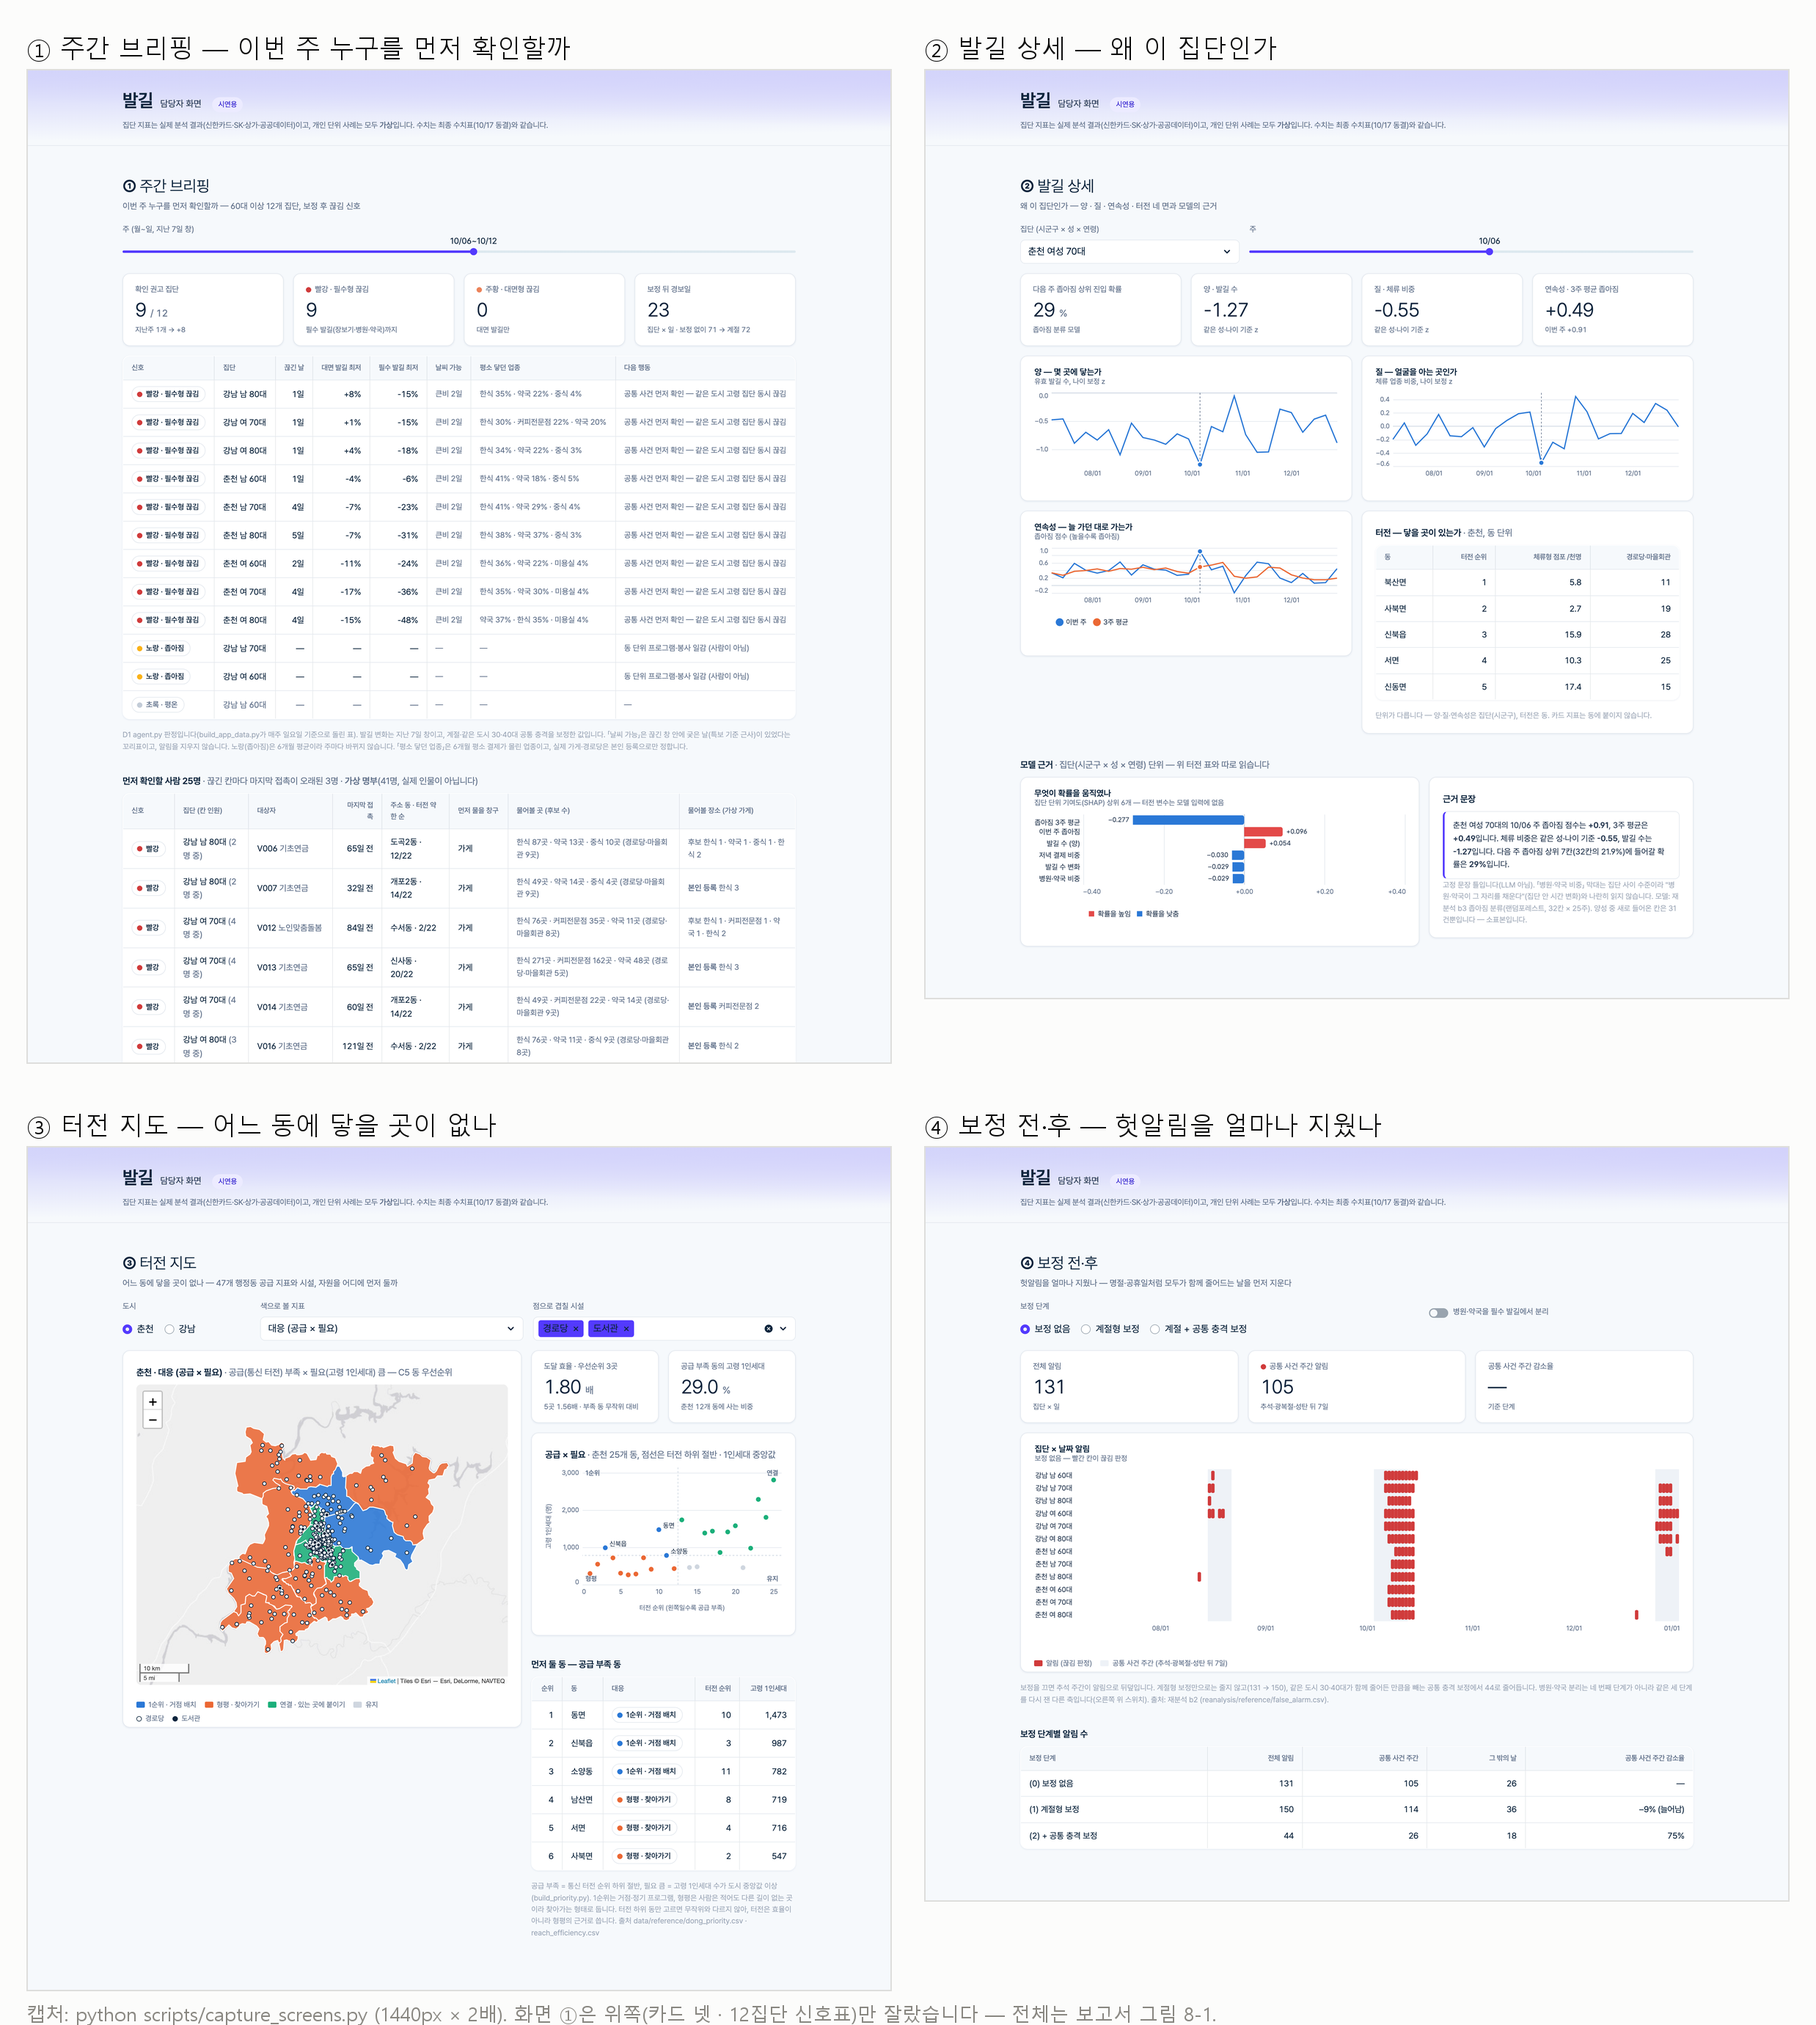
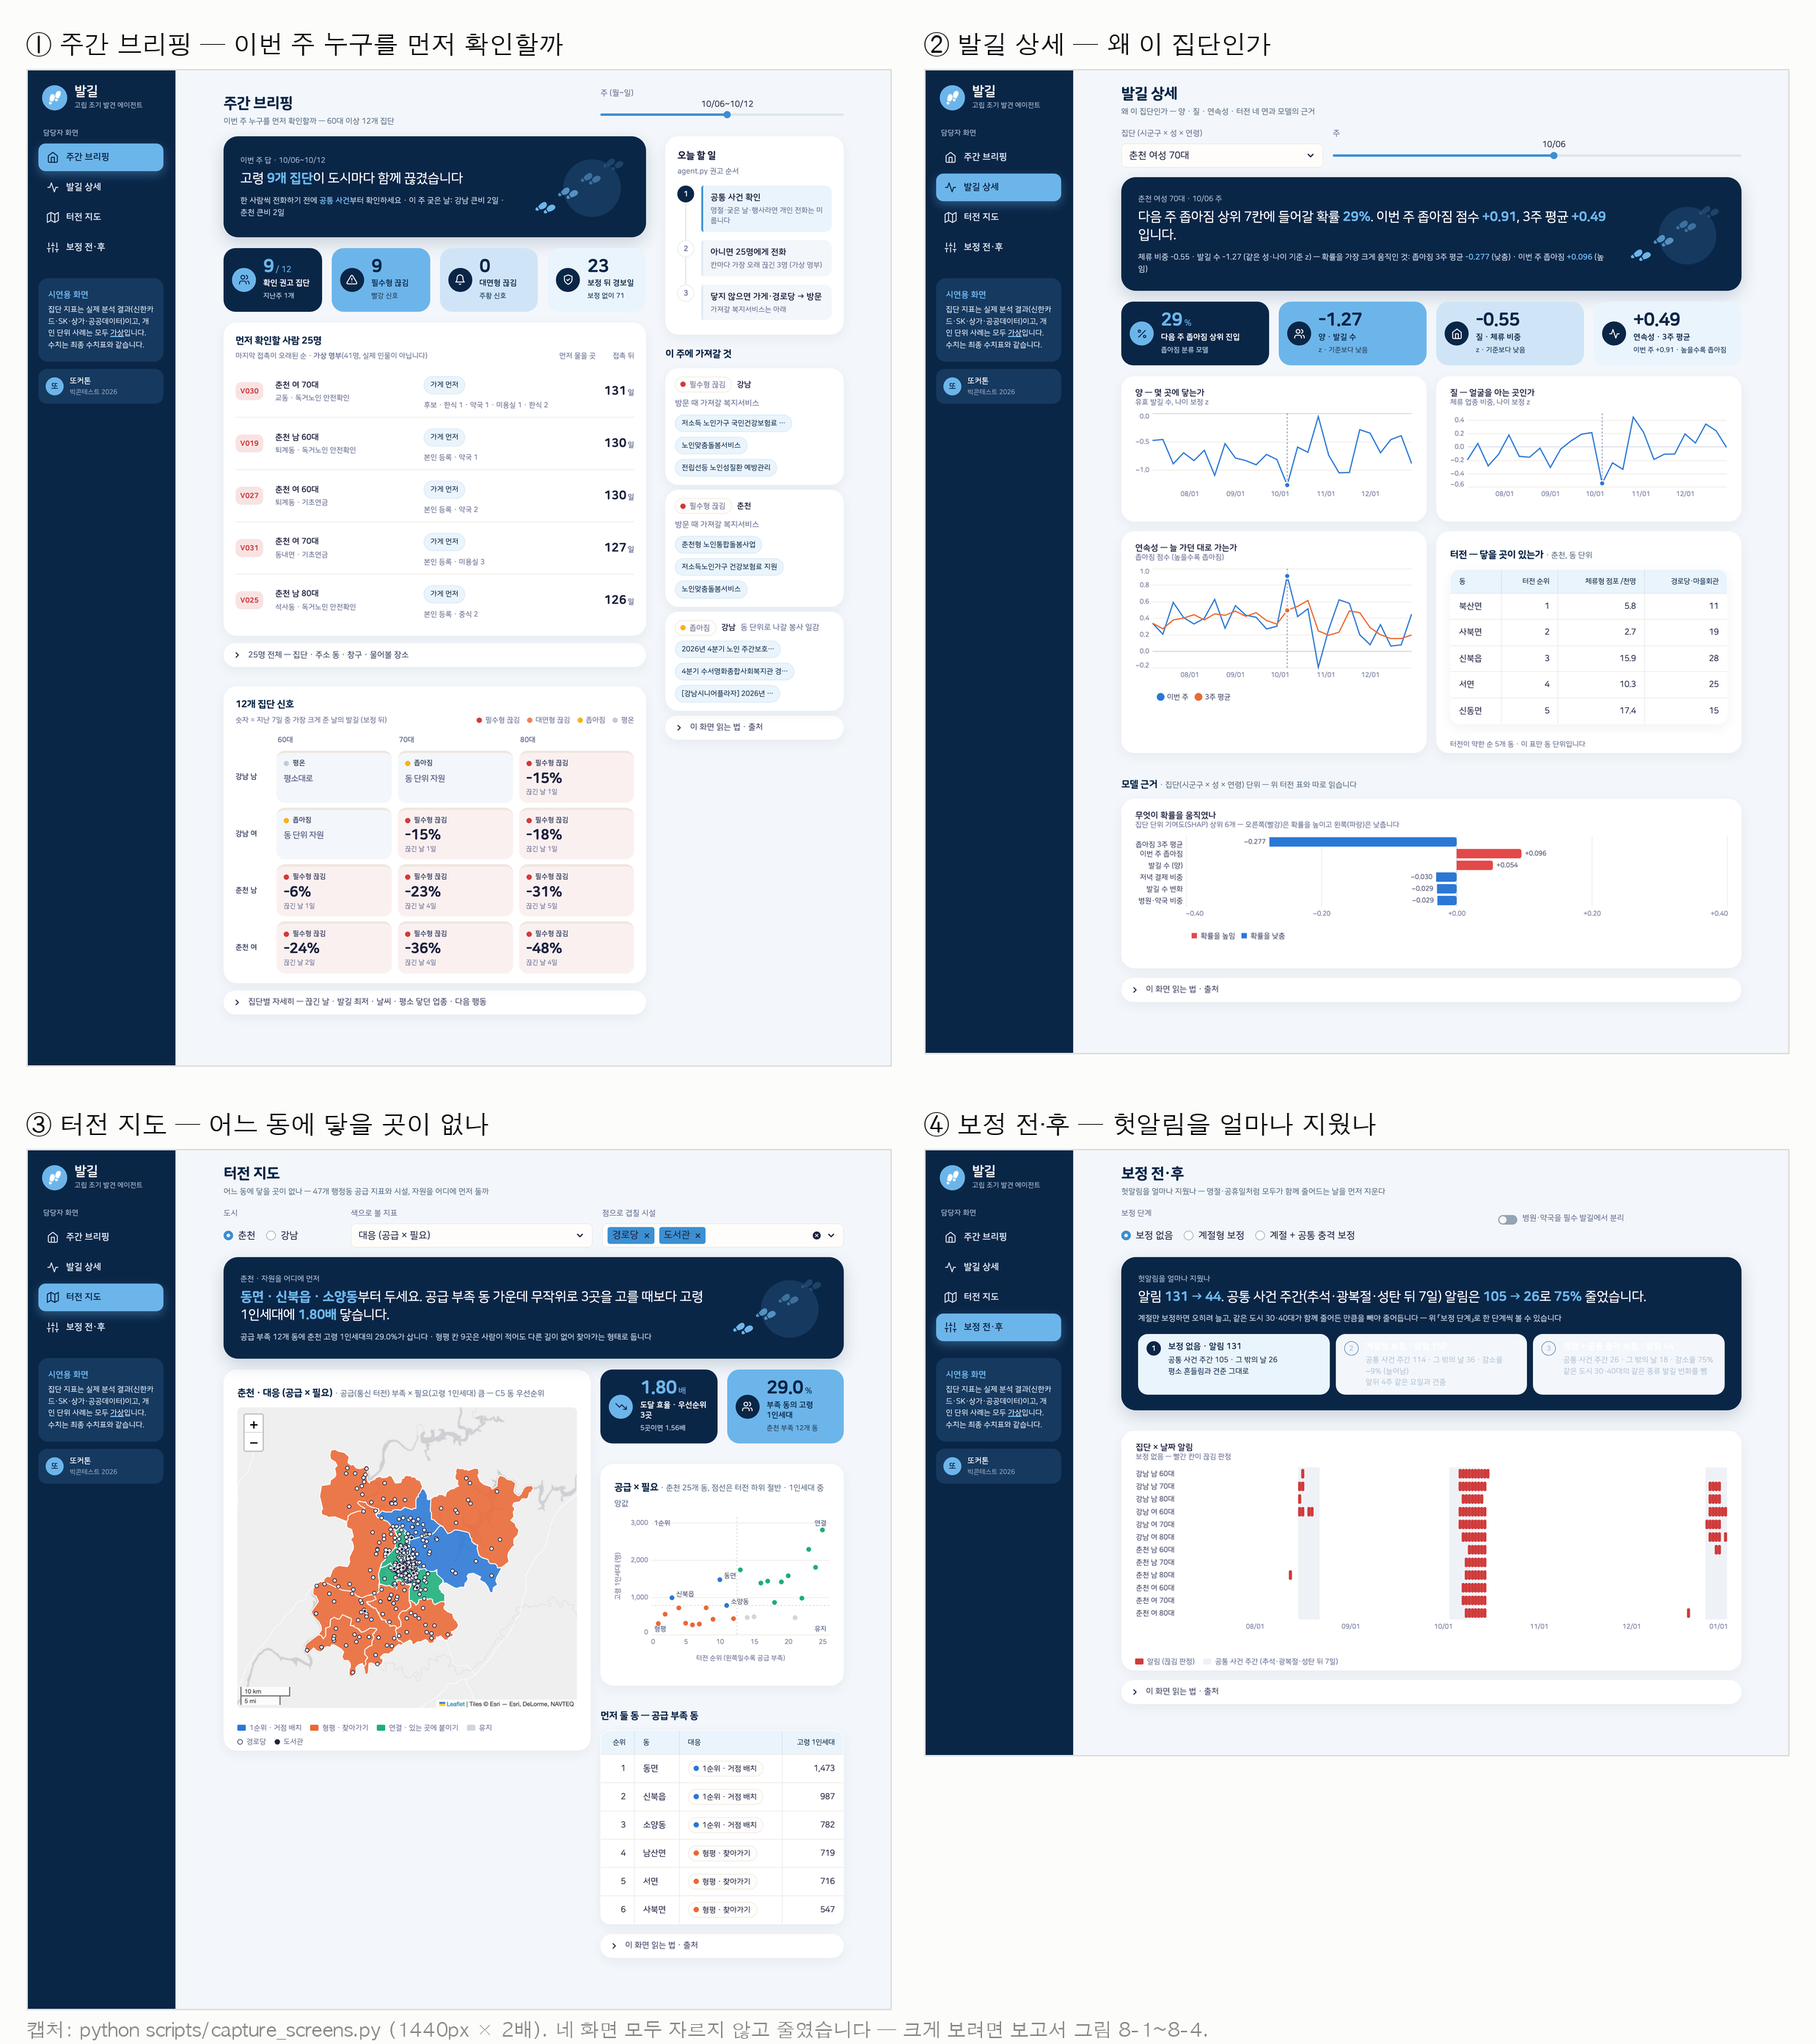
발표 11장 그림 · 보고서 · 제출 메일 표를 새 캡처에 맞추기
- fig_screens_grid.py: 새 화면 ①은 2880 × 3320이라 자르지 않고 그대로 줄입니다. 그림 아래 「위쪽만 잘랐습니다」 줄도 고쳤습니다
- 발표자료_슬라이드.md 11장: 화면 ① 설명을 새 순서(답 · 타일 → 먼저 확인할 사람 → 신호판)로
- reports/발길_분석보고서.md · .html: build_report.py --html로 다시 만들었습니다(그림 8-1~8-5가 새 캡처)
- 제출요건.md 3번 표: 화면캡처 zip을 새 캡처로 다시 묶어 2.45MB · e7fb9b4c…로 바꿨습니다(드라이브에 올릴 그 파일)
- 체크리스트_윤지.md: 화면캡처 크기를 같은 값으로

diff --git a/reports/발길_분석보고서.html b/reports/발길_분석보고서.html
@@ -2497,7 +2497,7 @@ python scripts/explore_sk_independent.py       # 5.7-2
 </blockquote>
 <p><strong>이 장면이 에이전트가 알림을 아끼는 방식입니다.</strong> 계절 보정과 같은 도시 30·40대 차감을 거치고도 춘천 고령 여섯 집단이 한꺼번에 남았습니다. 한 사람의 고립이라면 여섯 집단이 같은 주에 같이 줄 리가 없습니다. 명부에서 올라온 사람에게 바로 전화를 돌리면 연휴 끝에 장을 덜 본 분들께 안부 전화 수십 통을 거는 셈입니다. 에이전트는 그 전에 공통 사건을 확인하라고 권합니다. 이번 주는 추석 연휴(10/03~10/09)가 막 끝났고, 「날씨 가능」 꼬리표에 큰비 2일(10/10·10/11, 화면에는 날짜 없이 「큰비 2일」)이 붙어 있습니다.</p>
 <p><strong>9시 10분 — 공통 사건인지 확인합니다.</strong> 주무관은 연휴와 비를 확인하고, 이번 주는 <strong>개별 전화 대신 집단을 지켜보기로</strong> 합니다. 다음 주 브리핑에서 춘천이 여전히 빨강으로 남으면 그때 개인 단계로 내려갑니다. 판단은 사람이 하고, 에이전트는 근거를 붙여 두 길을 다 보여 줄 뿐입니다.</p>
-<p><strong>만약 공통 사건이 아니었다면 — 명부 교차.</strong> 화면 ① 아래 「먼저 확인할 사람」 표가 끊긴 칸마다 가상 명부에서 <strong>마지막 접촉이 가장 오래된 3명</strong>을 올립니다. 춘천 여성 70대 칸의 근거는 이렇습니다.</p>
+<p><strong>만약 공통 사건이 아니었다면 — 명부 교차.</strong> 화면 ①의 「먼저 확인할 사람」 목록이 끊긴 칸마다 가상 명부에서 <strong>마지막 접촉이 가장 오래된 3명</strong>을 올립니다. 춘천 여성 70대 칸의 근거는 이렇습니다.</p>
 <blockquote>
 <p><strong>끊김(빨강) · 춘천 여 70대</strong>
 〈양〉 유효 발길 수 <strong>8.4</strong> — 같은 도시·성 50대(10.2)의 <strong>82%</strong>.
@@ -2539,7 +2539,7 @@ python scripts/explore_sk_independent.py       # 5.7-2
 </ul>
 <p>재현: <code>python scripts/run_agent.py --as-of 2025-10-01 --roster data/synthetic/roster_가상.csv --places data/synthetic/places_가상.csv</code></p>
 <h2 id="82">8.2 화면 네 개</h2>
-<p>화면은 Streamlit 하나에 탭 네 개입니다(<code>app/balgil_app.py</code>). <strong>git에 있는 파일만 읽어서 원본 데이터 없이도 뜹니다.</strong> <code>?screen=1</code>~<code>4</code>를 붙이면 그 화면만 열려 캡처에 씁니다.</p>
+<p>화면은 Streamlit 하나에 왼쪽 메뉴로 고르는 네 개입니다(<code>app/balgil_app.py</code>). 화면마다 맨 위 <strong>답 카드</strong> 한 줄과 숫자 타일이 먼저 오고, 근거 표는 그 아래 펼치는 칸에 둡니다. <strong>git에 있는 파일만 읽어서 원본 데이터 없이도 뜹니다.</strong> <code>?screen=1</code>~<code>4</code>를 붙이면 그 화면만 열려 캡처에 씁니다.</p>
 <table>
 <thead>
 <tr>
@@ -2552,7 +2552,7 @@ python scripts/explore_sk_independent.py       # 5.7-2
 <tbody>
 <tr>
 <td><strong>① 주간 브리핑</strong></td>
-<td>주 고르기(월~일, 지난 7일 창) → 확인 권고 집단 수와 지난주 대비, 빨강·주황 수, 보정 뒤 경보일. 12집단 신호표(끊긴 날 · 대면/필수 최저 · 날씨 가능 · 평소 닿던 업종 · 다음 행동). 그 아래 <strong>먼저 확인할 사람</strong>(가상 명부: 칸 인원 · 마지막 접촉 · 주소 동의 터전 순위 · 먼저 물을 창구 · 후보 수 · <strong>물어볼 장소</strong> — 본인 등록 장소, 없으면 그 동의 후보 장소, #77)</td>
+<td>주 고르기(월~일, 지난 7일 창) → <strong>답 카드</strong>(이번 주 한 줄과 오늘 할 일 세 단계) → 숫자 타일(확인 권고 집단 수와 지난주 대비, 빨강·주황 수, 보정 뒤 경보일). 그 아래 <strong>먼저 확인할 사람</strong>(마지막 접촉이 오래된 순 몇 줄, 펼치면 전체 — 가상 명부: 칸 인원 · 마지막 접촉 · 주소 동의 터전 순위 · 먼저 물을 창구 · 창구를 가른 비교(가게 ↔ 경로당·마을회관 × 3) · <strong>물어볼 장소</strong> — 본인 등록 장소, 없으면 그 동의 후보 장소, #77). 맨 아래 <strong>12개 집단 신호판</strong>(도시·성 × 연령, 펼치면 끊긴 날 · 대면/필수 최저 · 날씨 가능 · 평소 닿던 업종 · 다음 행동). 오른쪽에 방문 때 가져갈 복지서비스 · 봉사 일감</td>
 <td><strong>이번 주 누구를 먼저 확인할까.</strong> 동시 끊김이면 개인보다 공통 사건 먼저</td>
 <td><code>agent_summary.csv</code> · <code>agent_groups.csv</code> · <code>agent_people.csv</code> (<code>agent.py</code> 판정을 매주 일요일로 돌린 것)</td>
 </tr>
@@ -2570,7 +2570,7 @@ python scripts/explore_sk_independent.py       # 5.7-2
 </tr>
 <tr>
 <td><strong>④ 보정 전·후</strong></td>
-<td>보정 단계(없음 / 계절형 / + 공통 충격)를 바꾸면 집단 × 날짜 알림 칸이 바뀜. 단계별 알림 수 표(병원·약국 포함/분리)</td>
+<td>보정 단계(없음 / 계절형 / + 공통 충격)를 바꾸면 집단 × 날짜 알림 칸이 바뀜. 단계별 알림 수는 답 카드의 세 칸, 병원·약국 분리는 오른쪽 위 스위치</td>
 <td><strong>헛알림을 얼마나 지웠나.</strong> 추석 주간이 알림으로 덮이는 것과 지워지는 것</td>
 <td><code>break_daily.csv</code> · <code>false_alarm.csv</code> (재분석 reference)</td>
 </tr>

diff --git a/scripts/fig_screens_grid.py b/scripts/fig_screens_grid.py
@@ -3,9 +3,9 @@
 11장은 「화면 넷」이 주장인데 캡처가 넉 장으로 따로 있어, 슬라이드에 넣을 그림이 없었다.
 손으로 네 장을 올리면 장마다 크기·여백이 달라지므로 여기서 한 번에 맞춘다.
 
-**화면 ①은 세로로 아주 길다**(2880 × 6588). 통째로 줄이면 글자가 뭉개지므로 **위쪽만 자른다** —
-카드 넷과 12집단 신호표가 거기 있고, 그 아래 「먼저 확인할 사람」 표는 8절 그림 8-1에서 통째로 본다.
-나머지 셋은 비율이 1:1 언저리라 그대로 줄인다.
+예전 화면 ①은 세로로 아주 길어(2880 × 6588) 위쪽만 잘랐다. 대시보드 틀(#126)로 바꾼 뒤에는
+넷 모두 1:1 언저리(화면 ① 2880 × 3320)라 **자르지 않고 그대로 줄인다.** 세로로 긴 화면이 다시 생기면
+PANEL 셋째 칸에 비율(가로 대비 세로)을 넣으면 위쪽만 잘린다.
 
 캡처는 현수가 찍어 커밋한 것을 읽기만 한다(`capture_screens.py`, #118). 이 스크립트는 자르고
 붙이기만 하므로 돌릴 때마다 같은 그림이 나온다 — 글자는 번호와 이름뿐이다.
@@ -31,7 +31,7 @@ ROOT = Path(__file__).resolve().parents[1]
 SRC = ROOT / "reports" / "screens"
 OUT = ROOT / "reports" / "figures" / "fig_screens_grid.png"
 
-PANEL = [("screen1.png", "① 주간 브리핑 — 이번 주 누구를 먼저 확인할까", 1.15),
+PANEL = [("screen1.png", "① 주간 브리핑 — 이번 주 누구를 먼저 확인할까", None),
          ("screen2.png", "② 발길 상세 — 왜 이 집단인가", None),
          ("screen3.png", "③ 터전 지도 — 어느 동에 닿을 곳이 없나", None),
          ("screen4.png", "④ 보정 전·후 — 헛알림을 얼마나 지웠나", None)]
@@ -81,7 +81,7 @@ def main() -> None:
         d.rectangle([x, top, x + CELL_W - 1, top + im.height - 1], outline=EDGE, width=2)
 
     d.text((PAD, H - PAD + 2), "캡처: python scripts/capture_screens.py (1440px × 2배). "
-                               "화면 ①은 위쪽(카드 넷 · 12집단 신호표)만 잘랐습니다 — 전체는 보고서 그림 8-1.",
+                               "네 화면 모두 자르지 않고 줄였습니다 — 크게 보려면 보고서 그림 8-1~8-4.",
            font=f_sub, fill=MUTED)
 
     OUT.parent.mkdir(parents=True, exist_ok=True)

diff --git a/docs/체크리스트_윤지.md b/docs/체크리스트_윤지.md
@@ -112,7 +112,7 @@
 
 - [x] ~~제출 메일 초안~~ → **10/16 완료**([`제출요건.md`](제출요건.md) 6-2). 팀명(**또커톤**)까지 채웠고 「보내기 전 확인」 다섯 줄을 붙였습니다. 남은 〈 〉는 **링크와 보내는 사람 이름** 둘입니다
 - [x] ~~10/25 — 발표 PDF · 보고서 PDF를 떠서 크기 재기~~ → **보고서 6.18MB(98쪽) · E5 0.37MB · E6 0.24MB**를 `python scripts/build_pdf.py`(크롬 헤드리스)로 떴습니다. 1쪽과 47쪽을 열어 한글 글꼴·표·그림을 눈으로 확인했습니다. **발표자료 PDF만 구글 슬라이드에서 내려받으면 됩니다**
-- [ ] **첨부 묶기** — `python scripts/build_package.py`. 10/26 기준 — **「큰 것은 링크」(#124)로 가면 첨부 6.99MB**라 PDF 넷에 **18.01MB**가 남습니다. PDF 셋이 6.80MB이니 **발표 PDF가 11.2MB 아래면 한 통**입니다. 드라이브로 가는 zip은 화면캡처 3.65MB · 상가 강원 12.73MB · 상가 서울 · SGIS 경계
+- [ ] **첨부 묶기** — `python scripts/build_package.py`. 10/26 기준 — **「큰 것은 링크」(#124)로 가면 첨부 6.99MB**라 PDF 넷에 **18.01MB**가 남습니다. PDF 셋이 6.80MB이니 **발표 PDF가 11.2MB 아래면 한 통**입니다. 드라이브로 가는 zip은 화면캡처 2.45MB(발표자료 색 화면으로 다시 찍은 뒤) · 상가 강원 12.73MB · 상가 서울 · SGIS 경계
 - [ ] **10/26 오전 제출** (`bigcontest@kait.or.kr`)
 - [ ] 보낸 메일·첨부 목록 캡처 보관
 

diff --git a/docs/draft/발표자료_슬라이드.md b/docs/draft/발표자료_슬라이드.md
@@ -211,7 +211,7 @@
 
 ### 담당자가 **3초에 이해하는 화면**
 
-- **① 주간 브리핑 — 이번 주 누구를 먼저 확인할까.** 맨 위 카드 넷(확인 권고 집단 · 빨강 · 주황 · 보정 뒤 경보일), 12집단 신호표, 그 아래 「먼저 확인할 사람」(칸마다 오래된 3명 · 먼저 물을 창구)과 이번 주 가져갈 자원
+- **① 주간 브리핑 — 이번 주 누구를 먼저 확인할까.** 맨 위 이번 주 답 한 줄과 숫자 타일 넷(확인 권고 집단 · 빨강 · 주황 · 보정 뒤 경보일), 그 아래 「먼저 확인할 사람」(칸마다 오래된 3명 · 먼저 물을 창구), 맨 아래 12집단 신호판, 오른쪽에 오늘 할 일과 이번 주 가져갈 자원
 - **② 발길 상세 — 왜 이 집단인가.** 양 · 질 · 연속성 시계열과 그 집단 시군구의 터전 하위 동, 그 아래 모델 근거(집단 단위 SHAP)와 고정 문장
 - **③ 터전 지도 — 어느 동에 닿을 곳이 없나.** 자원을 어디에 먼저 둘지 정합니다. 47개 동을 공급 × 필요 네 칸 색으로, 도달 효율 카드와 「먼저 둘 동」 표
 - **④ 보정 전·후 — 헛알림을 얼마나 지웠나.** 보정 단계를 바꾸면 집단 × 날짜 알림이 바로 바뀝니다 (**131 → 150 → 44**, 7장과 같은 값)
